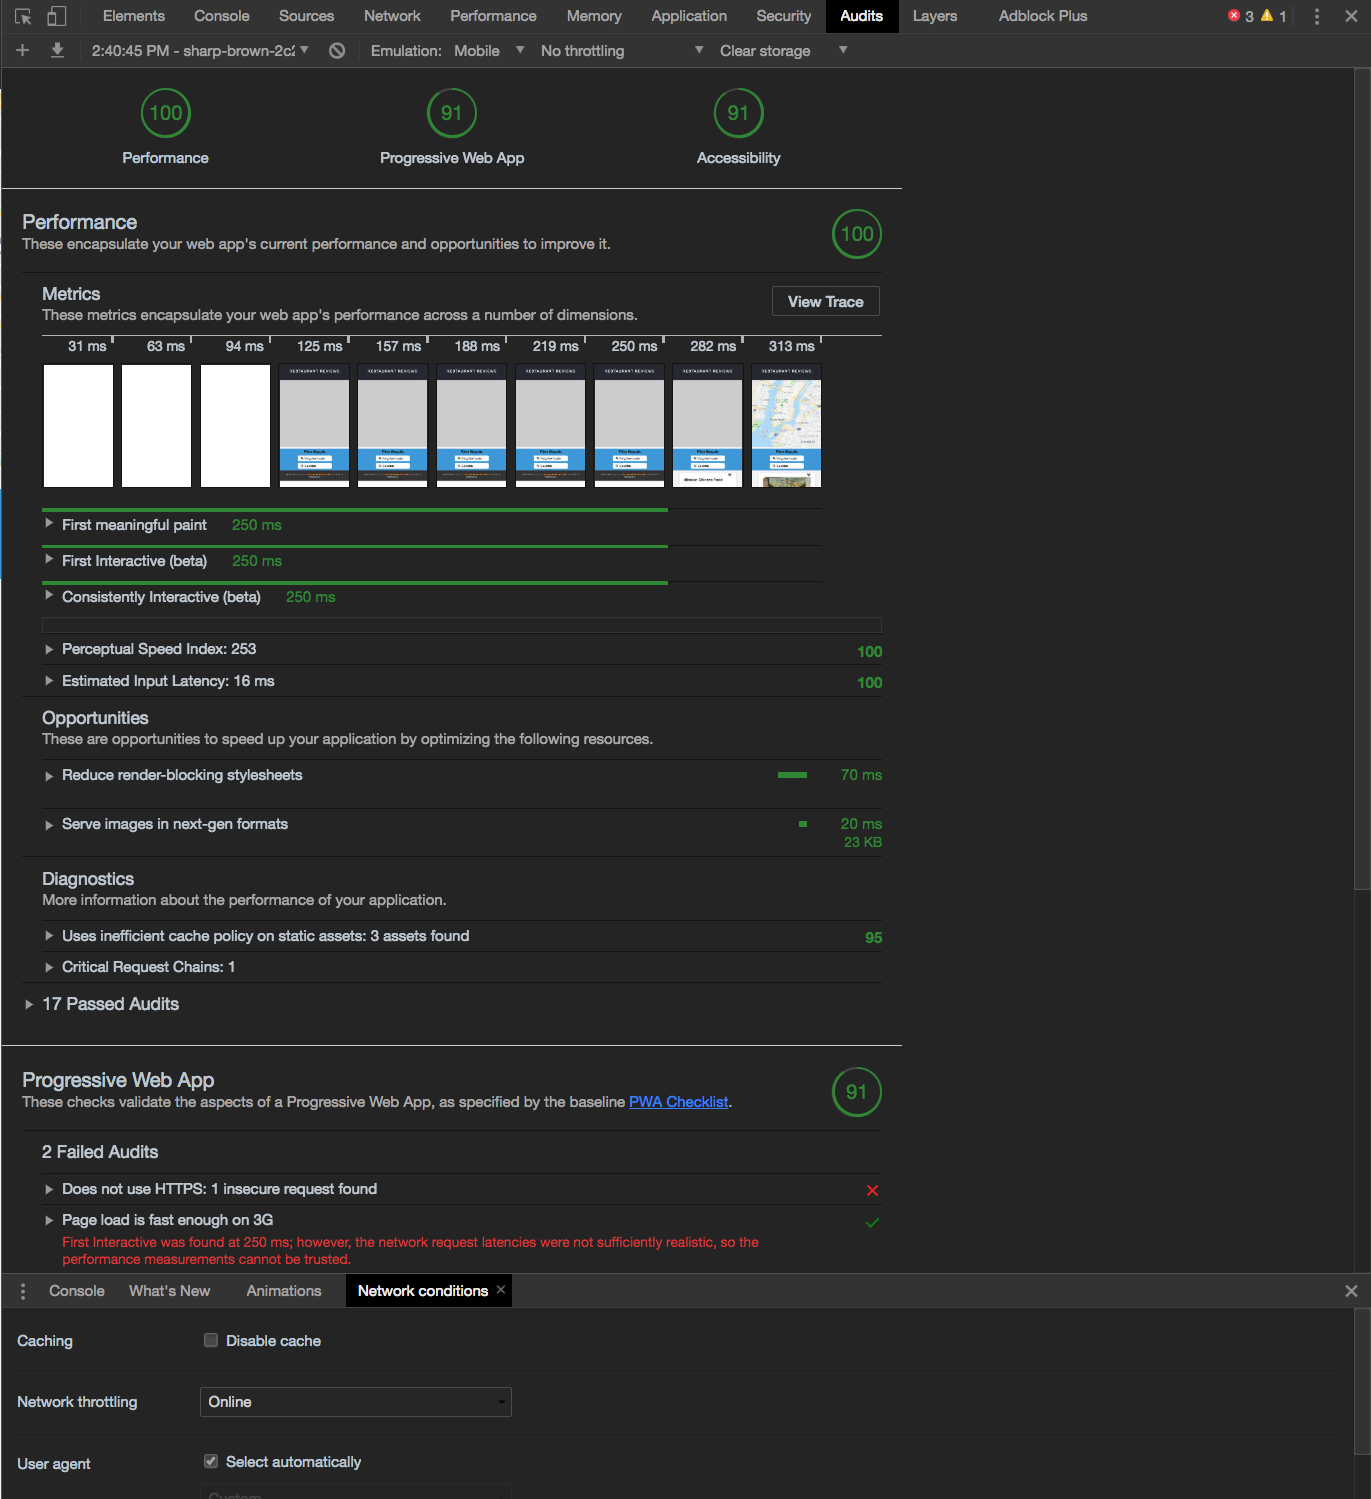
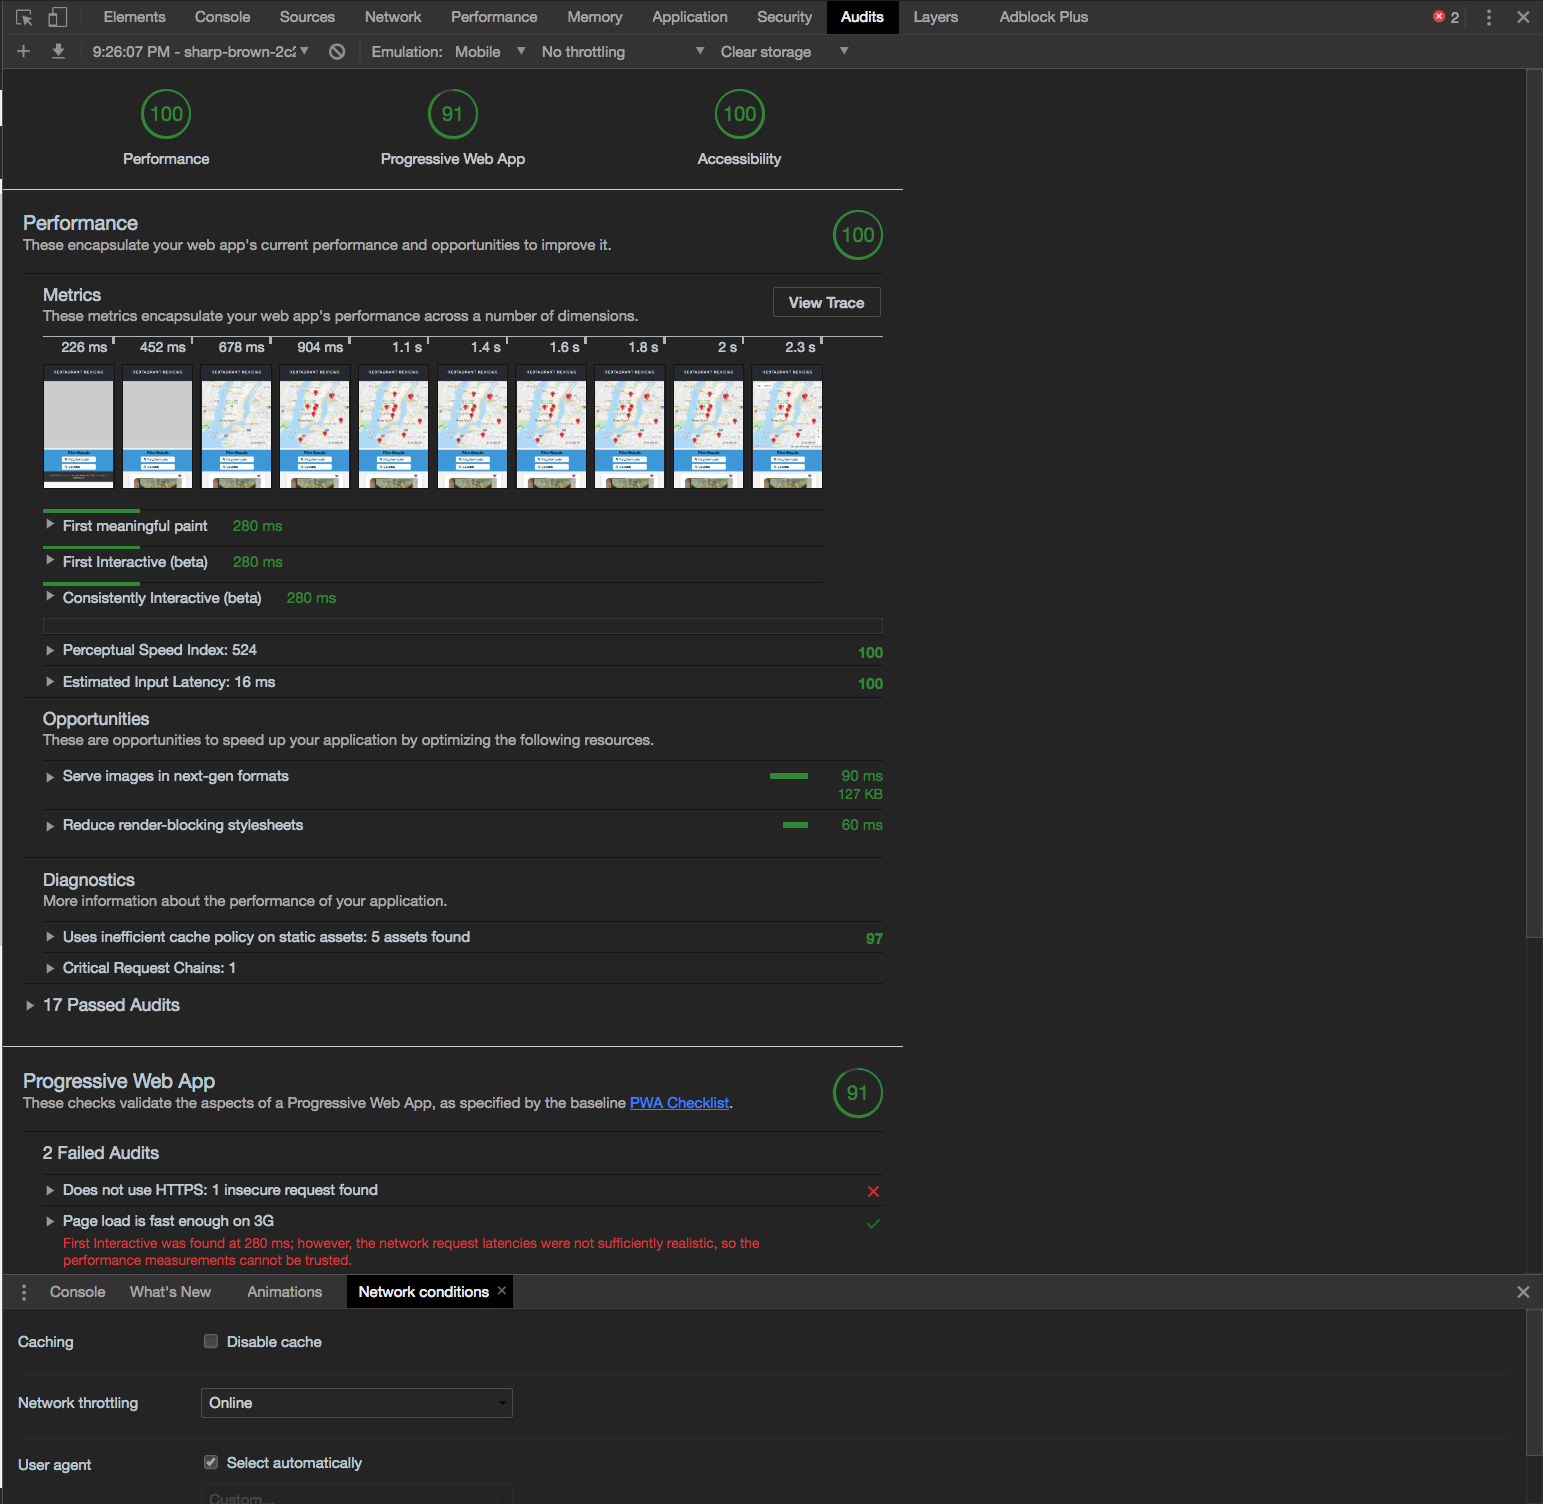
removed static map, centered filter options for desktop size and added webp for responsive images

diff --git a/css/styles.css b/css/styles.css
@@ -742,6 +742,30 @@ nav h1 a {
   padding: 0 10px;
   width: 200px;
 }
+.filter-options {
+    padding: 0;
+  }
+  options select {
+    display: inline-block;
+    margin: 8px auto;
+    text-align: center;
+  }
+  label {
+    text-align: center;
+    display: block;
+    font-size: 1.15rem;
+    font-weight: 700;
+    position: relative;
+  }
+  .filter-options h2, .filter-options select {
+      display: block;
+      margin: 10px auto;
+      text-align: center;
+  }
+  .filter-options h2 {
+    padding-top: 10px;
+    font-size: 1.4rem;
+  }
 label {
   margin: 0px 6px;
 }
@@ -776,6 +800,10 @@ label {
   border-radius: 1rem 0;
   max-width: 100%;
   min-width: 100%;
+}
+.restaurant-img {
+    max-width: 100%;
+    border-radius: 1rem 0;
 }
 #restaurants-list li h1 {
   color: #f18200;
@@ -848,7 +876,7 @@ label {
   width: 50%;
 }
 .inside #map {
-  background-color: #ccc;
+  background-color: #303e48;
   height: 100%;
   width: 100%;
 }
@@ -869,7 +897,7 @@ label {
 }
 #restaurant-img {
     display: block;
-    width: 90%;
+    width: 100%;
     margin: 0 auto;
     border-radius: 2rem 0;
 }
@@ -1116,7 +1144,7 @@ RESPONSIVE SETTINGS
       }*/
 
       .inside .restaurant-img {
-        max-width: 600px;
+        max-width: 100%;
       }
 
     #restaurant-container, #reviews-container {
@@ -1176,6 +1204,8 @@ RESPONSIVE SETTINGS
       padding-top: 10px;
       font-size: 1.4rem;
     }
+    .inside .restaurant-img {
+        max-width: 100%;
     .rating {
         width: 33%;
         max-width: auto;
@@ -1197,4 +1227,6 @@ RESPONSIVE SETTINGS
      padding: 1rem 0;
      font-size: .65rem;
     }
+    .inside .restaurant-img {
+        max-width: 100%;
     }

diff --git a/js/main.js b/js/main.js
@@ -172,17 +172,17 @@ createRestaurantHTML = restaurant => {
   favorite.dataset.liked = restaurant.is_favorite;
 
   if (favorite.dataset.liked == 'true') {
-    favorite.innerText = '💜';
+    favorite.innerText = '❤';
   } else {
     favorite.innerText = '🖤';
-    favorite.style.opacity = '0.7';
+    favorite.style.opacity = '0.5';
   }
 
   favorite.addEventListener('click', e => {
     // Update the UI
     if (e.target.dataset.liked == 'false') {
       e.target.dataset.liked = true;
-      e.target.innerText = '💜';
+      e.target.innerText = '❤';
       e.target.style.opacity = '1';
       e.target.parentNode.parentNode.classList.add('liked');
     } else {
@@ -256,6 +256,7 @@ createRestaurantHTML = restaurant => {
 /**
  * Add markers for current restaurants to the map.
  */
+/*
 createStaticMapHTML = () => {
   const staticMapContainer = document.getElementById('static-map-container');
   const mapContainer = document.getElementById('map-container');
@@ -312,7 +313,7 @@ createStaticMapHTML = () => {
   staticMapContainer.append(backdrop);
   staticMapContainer.append(staticMap);
 };
-
+*/
 /**
  * Add markers for current restaurants to the map.
  */

diff --git a/restaurant.html b/restaurant.html
@@ -35,6 +35,7 @@
 
   <!-- Beginning main -->
   <main id="maincontent" role="main">
+        <!--<section id="static-map-container"></section>-->
 		<!-- Beginning map -->
     <section id="map-container" tabindex="3" role="section" aria-label="restaurant map">
 				<div id="map" tabindex="4" role="application" aria-label="image of map" lang="en"></div>
@@ -48,7 +49,7 @@
       <p id="restaurant-cuisine" role="heading" tabindex="8"></p>
       <p id="restaurant-address" role="presentation" tabindex="9"></p>
       <table id="restaurant-hours" role="presentation"tabindex="10"></table>
-      <button id="restaurant-on-map" class="button"  role="navigation "tabindex="11">Show on map </button>
+      <button id="restaurant-on-map" class="button"  role="navigation "tabindex="11">Show on map</button>
       <!-- Beginning map
       <section id="map-container">
         <div id="map" tabindex="0" aria-label="location" role="application"></div>

diff --git a/js/restaurant_info.js b/js/restaurant_info.js
@@ -265,7 +265,7 @@ fillBreadcrumb = (restaurant = self.restaurant) => {
   const breadcrumb = document.getElementById('breadcrumb');
   const li = document.createElement('li');
   li.innerHTML = restaurant.name;
-	li.setAttribute('aria-current', restaurant.name); //added aria-current for accessibilty
+  li.setAttribute('aria-current', restaurant.name); //added aria-current for accessibilty
   breadcrumb.appendChild(li);
 };
 
